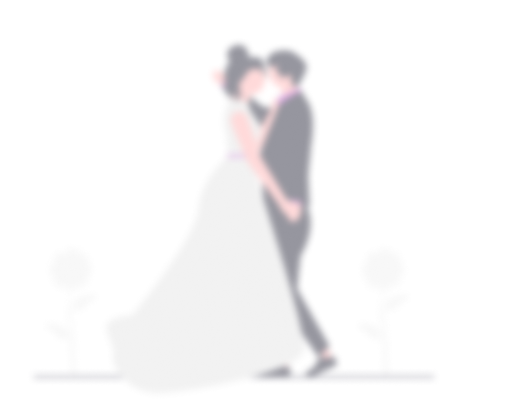
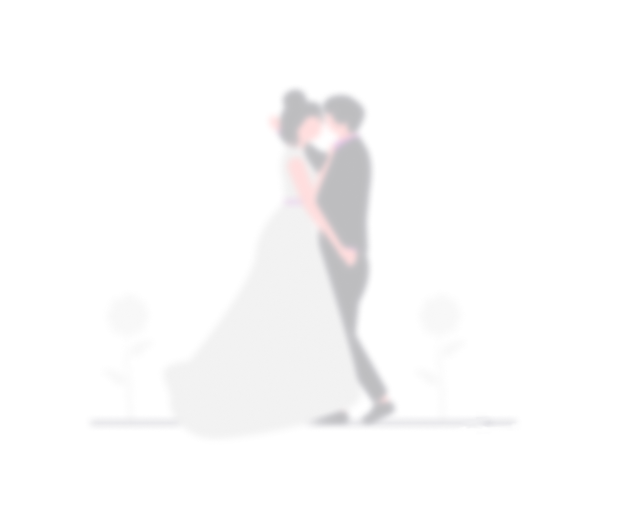
chore: Update CSS for home page

Changed region(s): [[0.411, 0.087, 0.6164, 0.6957], [0.499, 0.7246, 0.6751, 0.9275], [0.499, 0.8116, 0.5577, 0.8406]]

diff --git a/app/home/page.tsx b/app/home/page.tsx
@@ -1,10 +1,13 @@
 import React from 'react'
 import Footer from '@/components/Footer';
+import Link from 'next/link';
+
 import '../styles/styles.css';
 import '../styles/search.css';
 import '../styles/categories.css';
 import '../styles/services.css';
 import '../styles/home.css';
+import '../styles/live.css';
 
 
 export default async function Home() {
@@ -13,18 +16,39 @@ export default async function Home() {
 
         <div>
             <img src="flower-art-top.png" className="image-full-width" width={966} height={301} />
-            <div className="container container-home">
-                <div className="inner-container">
+            <div className="container">
+                <div className="live-container">
+
                     <div className="center-items">
+                        <img src="home-couple.png" className="image-full-width home-couple-image remove-margin-top-5" width={511} height={414} />
+                        <img src="mwm-logo.png" className="image-full-width home-logo-image" width={534} height={104} />
+                    </div>
+
+                    <div className="button-container margin-top-20">
+                        <Link href="home">
+                            <button className="button pink-button button-large button-text-white text-thick glow-effect">Scan Wedding QR Code</button>
+                        </Link>
+                    </div>
+
+                    <div className="button-container margin-top-15">
+                        <Link href="marketplace">
+                            <button className="button grey-button button-large button-min-xlarge">Explore the App</button>
+                        </Link>
+                    </div>
+
+                    {/* <h1 className="heading-large">Login or sign up.</h1>
+                    <div className="button-container">
+                        <Link href="marketplace">
+                            <button className="button grey-button button-large">Login</button>
+                        </Link>
+                    </div> */}
+
+
+                    {/* <div className="center-items">
                         <img src="mwm-logo.png" className="image-full-width home-logo-image" width={534} height={104} />
                         <img src="home-couple.png" className="image-full-width home-couple-image" width={511} height={414} />
-                        
-                        <h1 className="heading-large margin-top-30">Are you currently at a wedding?</h1>
-                    </div>
-                    <div className="button-container">
-                        <button className="button pink-button button-large button-text-white text-thick glow-effect">Scan QR Code</button>
-                        <button className="button grey-button button-large">Login</button>
-                    </div>
+                    </div> */}
+
                 </div>
 
                 <div className="empty-space"></div>

diff --git a/app/styles/styles.css b/app/styles/styles.css
@@ -28,6 +28,14 @@ body {
     align-items: center;
 }
 
+.same-row {
+    display: flex;
+    flex-wrap: nowrap;
+    gap: 10px;
+    align-items: center;
+
+}
+
 .margin-top-5 {
     margin-top: 5px;
 }
@@ -313,17 +321,18 @@ a {
 
 .button-min-small {
     min-width: 100px;
-    /* Adjust as needed */
 }
 
 .button-min-medium {
     min-width: 140px;
-    /* Adjust as needed */
 }
 
 .button-min-large {
     min-width: 180px;
-    /* Adjust as needed */
+}
+
+.button-min-xlarge {
+    min-width: 220px;
 }
 
 .button-min-fill {

diff --git a/app/styles/home.css b/app/styles/home.css
@@ -1,16 +1,16 @@
 .home-logo-image {
-    height: 50px;
+    height: 55px;
     width: auto;
-    opacity: 80%;
 }
 
 .home-couple-image {
-    height: 200px;
+    height: 250px;
     width: auto;
 }
 
-.container-home {
-    padding-top: 0px;
-    padding-left: 30px;
-    padding-right: 30px;
-}
+/* .image-pink-ring {
+    height: 30px;
+    width: auto;
+    opacity: 40%;
+    margin-top: 4px;
+} */
